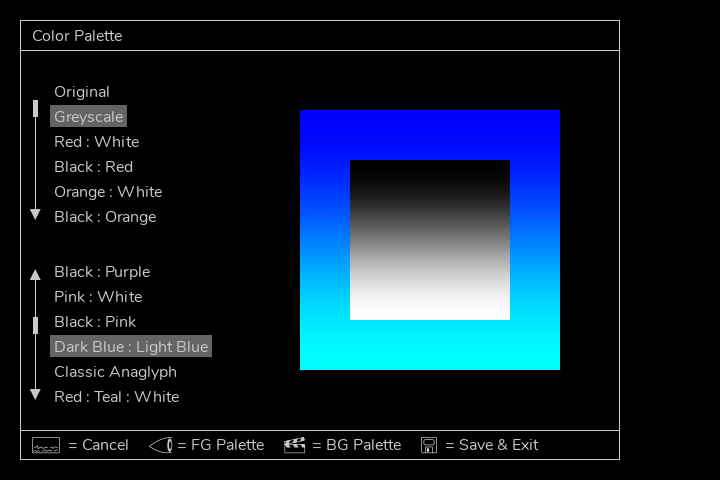
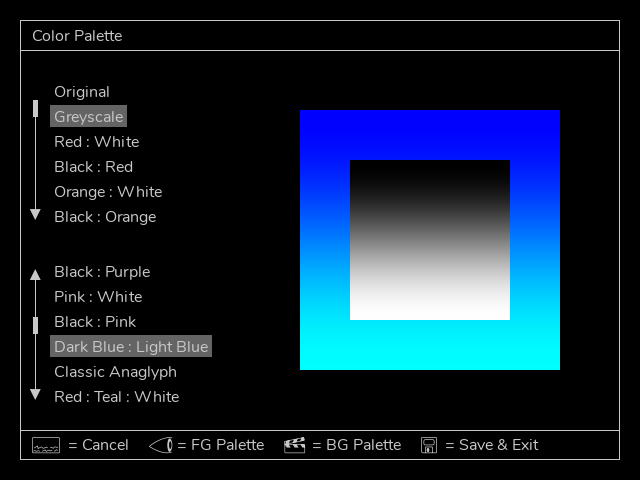
menu image crop, palette info, hardware test addition

diff --git a/docs/EYESY/palettes.py b/docs/EYESY/palettes.py
@@ -1,0 +1,23 @@
+[
+    {
+      "name":"My Palette",
+      "a":[0.5,0.5,0.5],
+      "b":[0.28,2,0.47],
+      "c":[1,0.14,1],
+      "d":[0,0.24,0.67]
+    },
+    {
+      "name": "Greyscale",
+      "a": [0.500, 0.500, 0.500],
+      "b": [0.500, 0.500, 0.500],
+      "c": [0.500, 0.500, 0.500],
+      "d": [0.500, 0.500, 0.500]
+    },
+    {
+      "name": "Black : Yellow",
+      "a": [0.500, 0.500, 0.500],
+      "b": [0.500, 0.500, -0.500],
+      "c": [0.500, 0.500, 0.000],
+      "d": [0.500, 0.500, 0.000]
+    }
+ ]

diff --git a/docs/EYESY/ey_os_3.md b/docs/EYESY/ey_os_3.md
@@ -15,7 +15,7 @@ Welcome to **EYESY**! Time is money so let’s get you up and running.
 
 ------------------------------------------------------------------------ 
 
-## WAIT AM I IN THE RIGHT PLACE? 
+## WAIT...AM I IN THE RIGHT PLACE? 
 
 The **EYESY** has had some major software updates in 2025. This manual is for the latest EYESY OS version 3 and higher. You can check the software version by pressing the top left On Screen Display button. If your EYESY is running version 2.3 you can upgrade to version 3 by flashing the micro SD card. See section 6.1 for instructions.
 
@@ -213,7 +213,7 @@ When the `Status LED` is glowing in one of these colors, it is indicating the fo
 -   Red: The knob sequencer is recording.
 -   Green: The knob sequencer is playing.
 
-**The `Shift` Button** allows access to additional functionality including an on screen menu. These functions are discussed later in this chapter and Chapter 3.
+**The `Shift` button** allows access to additional functionality including an on screen menu. These functions are discussed later in this chapter and Chapter 3.
 
 **The `Persist Toggle` button** is a nice toggle effect available in all situations. This is easier explained with a brief word on how EYESY carries out its drawing functions.
 
@@ -442,7 +442,7 @@ Once all mappings are set, press **Save** to store them in the system configurat
 If a scene that is mapped to a **Program Change number** is deleted, it will also be removed from this list automatically.  
 
 
-### 3.4 Color Palette  
+### 3.4 Color Palette
 
 The **Color Palette** menu allows you to select default foreground and background color palettes for all modes.  
 
@@ -458,6 +458,29 @@ Use the **Mode Forward** and **Mode Backward** buttons to cycle through the avai
 The first selection in the list is the original EYESY (OS v2.3) color palette. This original palette has some built-in color randomization. The changing colors at the top and bottom of the selection screen (and the OSD) are expected.
 
 These selections are stored in the configuration and will be used every time EYESY starts up. However, keep in mind that **scenes also store palette selections**, so when a scene is recalled, it may override these default settings. The palette settings in this menu act as the **default** colors used when EYESY first powers on, before any scenes are loaded.  
+
+####Customizing the List of Palettes
+
+A built-in file called *palettes.py* stores the palettes on the 'stock' OS. If you place file of the same name and format in the System folder (more on this in section 4.2) this file will override the default list of palettes.
+
+A copy of the stock *palettes.py* file is located in the EYESY documentation menu to the left. Feel free to remove and/or rearrange any of the individual palettes. A complete palette consists of the following:
+
+`    {
+      "name": "Greyscale",
+      "a": [0.500, 0.500, 0.500],
+      "b": [0.500, 0.500, 0.500],
+      "c": [0.500, 0.500, 0.500],
+      "d": [0.500, 0.500, 0.500]
+    },
+    `
+
+
+You can create your own palettes with the **Palette Picker** tool. The tool is located in the EYESY documentation menu to the left. 
+
+Once you have created a new palette, use the *Copy JSON* button and paste it in the *palettes.py* file in your desired location. Take care to ensure that a comma (`,`) is after the closed curly brace: `},` unless it is the last palette in the file. Be sure to give your new palette a name for easier reference. Save your updated *palettes.py* and upload it to the **System** folder (again, more on this in section 3.5 and chapter 4). As with any changes made to system files, the EYESY video engine will need to be restarted for changes to take effect (more on this in section 4.1). 
+
+The EYESY will present an error in the **Logs** if the *palettes.py* isn't formatted correctly. If this is the case, it use the default file instead. The **Logs** will display an error like this:
+`Error loading /sdcard/System/gradients.json: Expecting ',' delimiter: line 116 column 1 (char 2879), using default palettes.`
 
 ### 3.5 WiFi and Network Setup
 
@@ -495,7 +518,24 @@ The available options are:
 
 These options provide quick ways to manage storage, reset network settings, and ensure smooth operation while switching between SD and USB environments.  
 
-### 3.7 Logs  
+### 3.7 Hardware Test
+
+This menu has displays a simple line drawing of the EYESY's controls, as well as a grid of all 128 MIDI notes, a stereo VU meter, and some text about certain features passing a test or not:
+
+![System Settings Menu](images/menu_factory_test.png) 
+
+Let's start with the EYESY's controls:
+
+- Knobs: To test the knobs (aka 'potentiometers') please turn the knob to maximum left and then to maximum right. This left to right order is important because it is how the EYESY is expecting the values to come in. If the potentiometer outputs a voltage relative to a 0-to-1 range, it will pass and turn green. 
+- Buttons: A button must register three (3) presses to pass the test. If it does, it will turn green.
+
+To test the connections/other ports:
+
+- **USB WiFi adapter / USB Port** - 
+- **MIDI Input Port** -
+- **Audio Input Port**
+
+### 3.8 Logs  
 
 The **Logs** menu displays system messages from the EYESY software. This can be useful for debugging issues, checking for errors, or understanding what’s happening under the hood.  
 
@@ -697,8 +737,6 @@ Having walked through the general framework and requirements of EYESY’s modes,
 -   `eyesy.knob3` - A *float* representing the current value of *Knob 3*. Additionally, an incoming MIDI control change message of number `23` on the current selected MIDI channel will replace the value of *Knob 3*, until the knob is moved again.
 -   `eyesy.knob4` - A *float* representing the current value of *Knob 4*. Additionally, an incoming MIDI control change message of number `24` on the current selected MIDI channel will replace the value of *Knob 4*, until the knob is moved again.
 -   `eyesy.knob5` - A *float* representing the current value of *Knob 5*. Additionally, an incoming MIDI control change message of number `25` on the current selected MIDI channel will replace the value of *Knob 5*, until the knob is moved again.
--   `eyesy.lastgrab` - A **Pygame** *surface* that contains an image of the last taken screenshot taken (via the *Screenshot* button). This surface has dimensions of 1280 by 720, matching the full size of the screenshot.
--   `eyesy.lastgrab_thumb` - A **Pygame** *surface* that contains a thumbnail image of the last taken screenshot taken (via the *Screenshot* button). This surface has dimensions of 128 by 72.
 -   `eyesy.midi_notes` - A *list* representing the 128 various MIDI note pitches. Each value in this list indicates whether that note is current on or not. For example, you could create a threshold function that executes when “middle C” (MIDI note 60) is being held down with something like…
 
     `if eyesy.midi_notes[60] : yourFunctionHere()`
@@ -710,7 +748,7 @@ Having walked through the general framework and requirements of EYESY’s modes,
 
 Along with all of these variables, the `EYESY` object does have two functions worth mentioning as well:
 
--   `eyesy.bg_color()` - This sets the background color. It is usually specified as *"etc.color_picker_bg(etc.knob5)"* but any knob can be used to control the background color.  This function takes the knob value (from 0-1) and translates it to RGB values and uses that for the background color.
+-   `eyesy.color_picker_bg()` - This sets the background color. It is usually specified as *"etc.color_picker_bg(etc.knob5)"* but any knob can be used to control the background color.  This function takes the knob value (from 0-1) and translates it to RGB values and uses that for the background color.
 
 -   `eyesy.color_picker()` - This function translates the value of the specified knob into a color.  It is usually specified as *"etc.color_picker(etc.knob4)"* but any knob can be used to for the color picker. When called, this function returns a *tuple* of three integers representing the red, green, and blue components of this color. In the factory modes, you will often see a local variable (usually `color`) being set by this function, like so… 
 	
@@ -720,7 +758,7 @@ Along with all of these variables, the `EYESY` object does have two functions wo
 	
 	`color = eyesy.color_picker_lfo(etc.knob4)`
 
-This function has an optional, second argument that controls the maximum LFO rate. the default value of this argument is 0.5. In the example below *1.1* is the optional argument:
+This function has an optional, second argument that controls the maximum LFO rate. If no value is included in the function call, the default LFO rate will be used. This default value is 0.1. In the example below *1.1* is the optional argument:
 
 	`color = eyesy.color_picker_lfo(etc.knob4, 1.1)`
 
